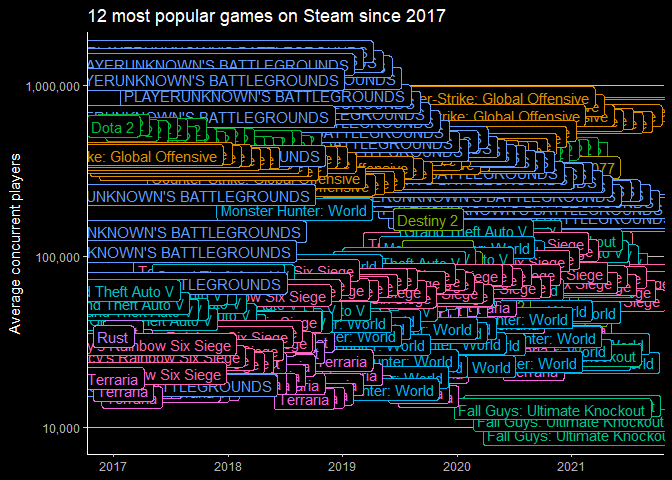
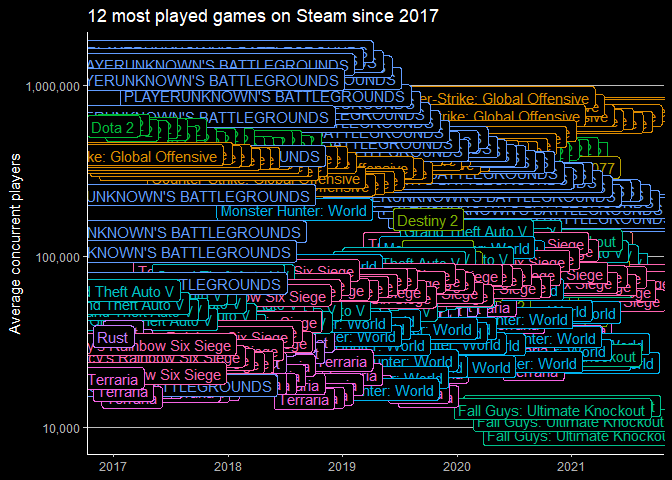
Change plot title

Changed region(s): [[0.25, 0.0, 0.6562, 0.0625]]

diff --git a/2021-03-16 Video Games + Sliced/2021-03-16-Video-Games-+-Sliced.md b/2021-03-16 Video Games + Sliced/2021-03-16-Video-Games-+-Sliced.md
@@ -70,7 +70,7 @@ p <- games %>%
         panel.grid.major.y = element_line(color = "grey", size = 0.2)) +
   scale_y_log10(labels= scales::comma) +
   scale_x_date(limits = c(as.Date("2017-01-01"), as.Date("2021-08-01"))) +
-  labs(x = NULL, y = "Average concurrent players", title = "12 most popular games on Steam since 2017")
+  labs(x = NULL, y = "Average concurrent players", title = "12 most played games on Steam since 2017")
 ```
 
     ## Inverted geom defaults of fill and color/colour.
